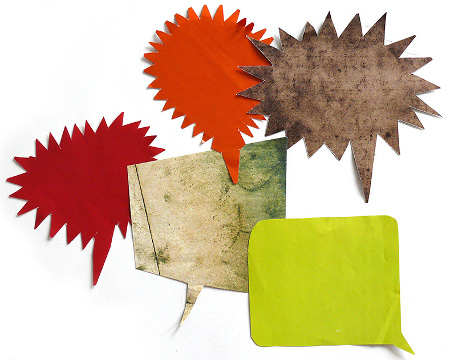
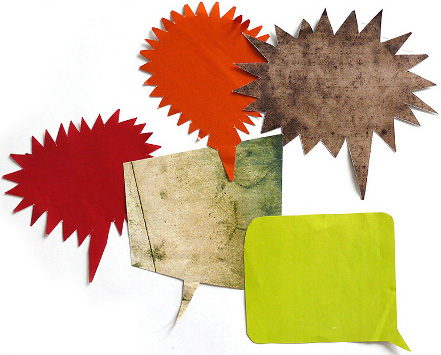
fixed bugs in index page

diff --git a/style.css b/style.css
@@ -131,14 +131,14 @@ body {
 #layer1 {	
 	margin-top: 1%;
 	background: url(pictures/banner3.jpg) no-repeat center top;
-	height: 20%;
+	height: 25%;
 }
 
 
 #layer2 {
 	background: url(pictures/lovedone/speechBalloons2.jpg) no-repeat center bottom ;
 	
-	height: 400px;
+	height: 60%;
 	
 }
 
